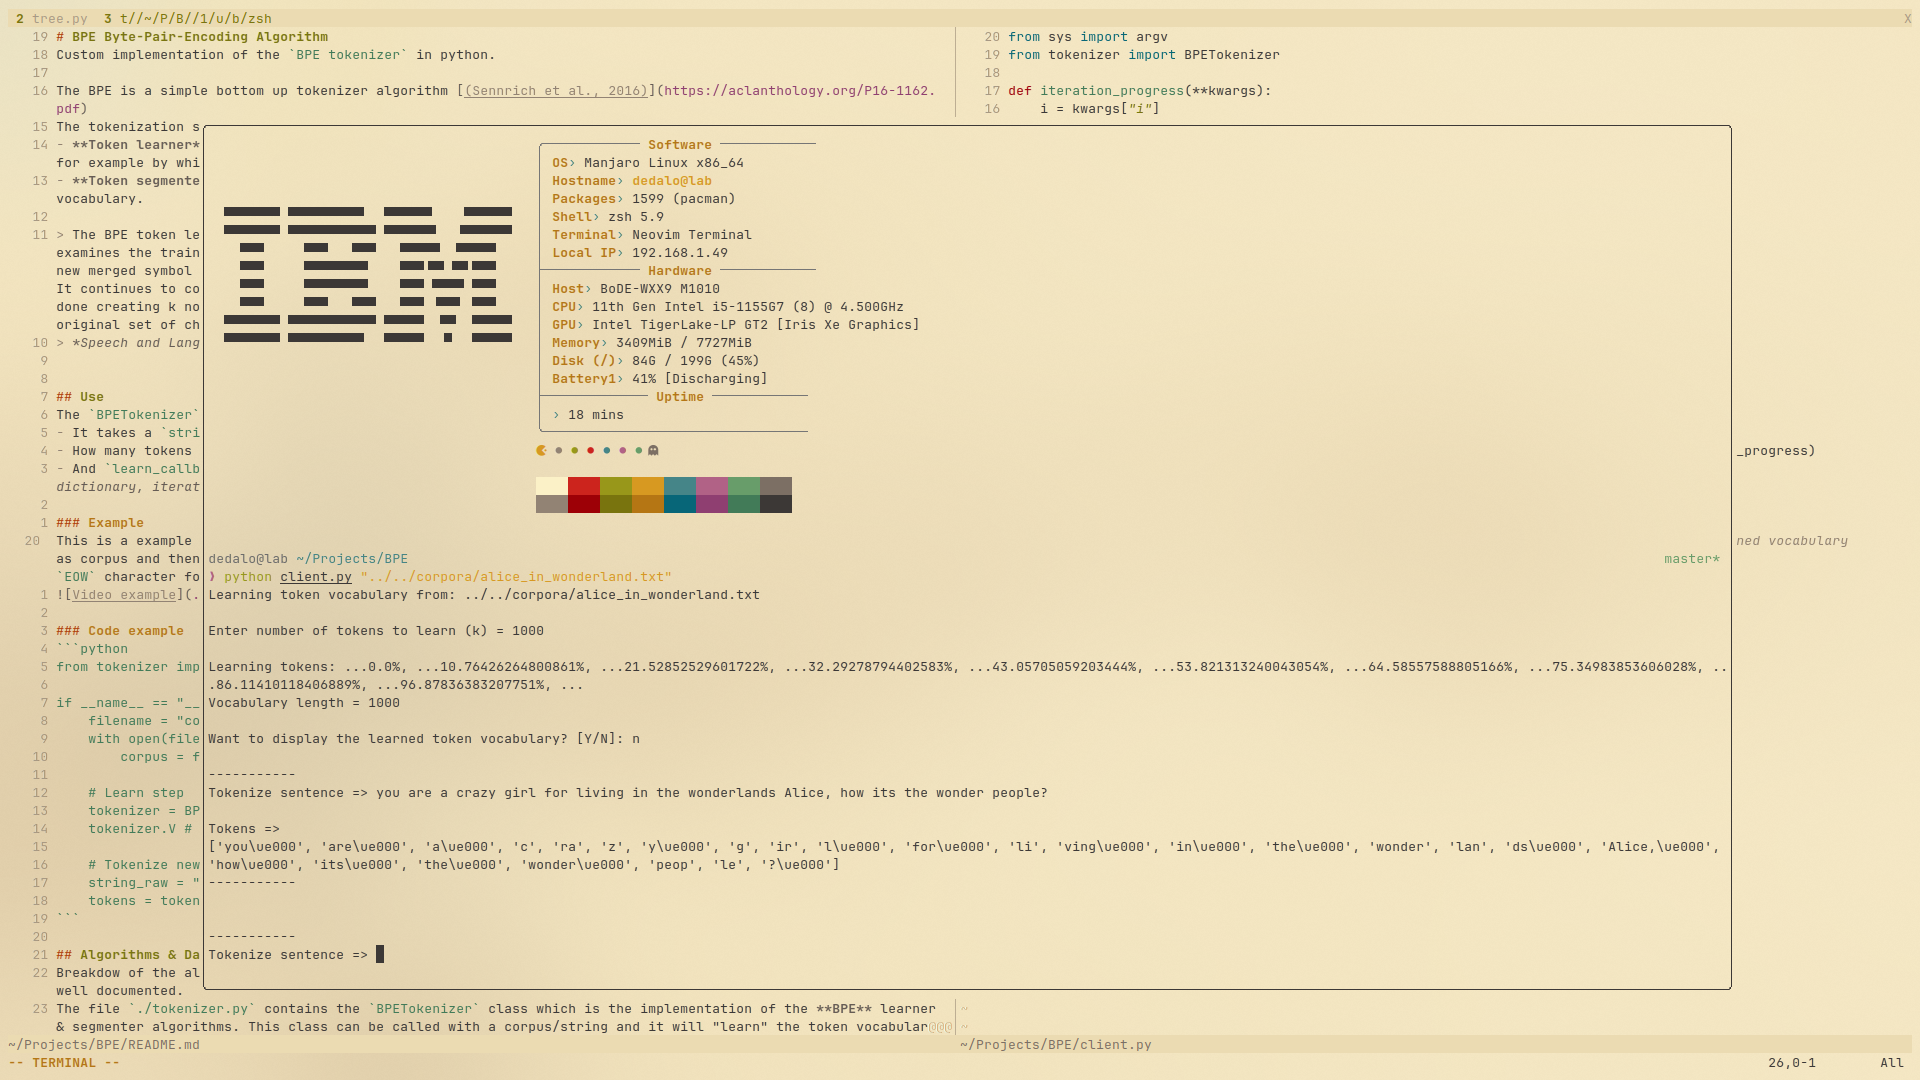
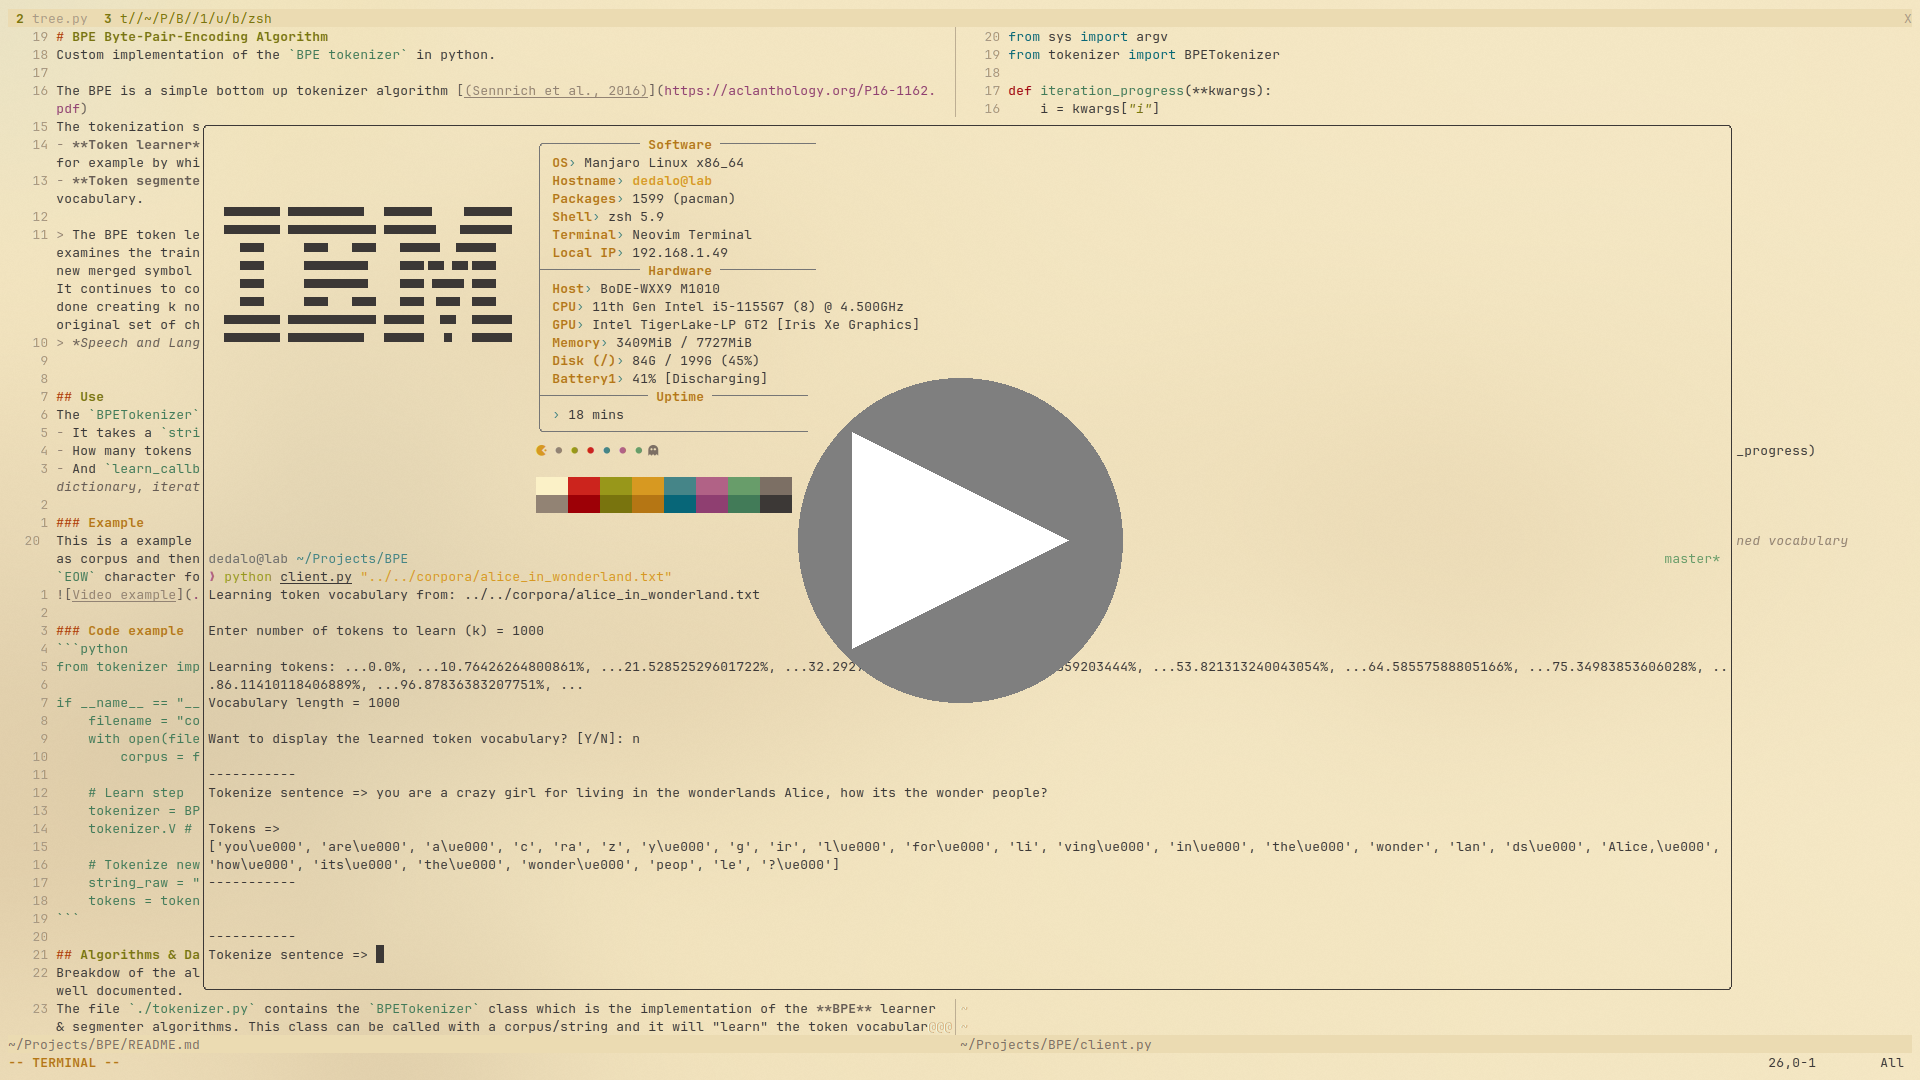
.

Changed region(s): [[0.4062, 0.3361, 0.5938, 0.6722]]

diff --git a/README.md b/README.md
@@ -18,8 +18,9 @@ The `BPETokenizer`,
 
 ### Example 
 This is a example from the simple `client.py` program that uses the tokenizer to learn a vocabulary from a file as corpus and then ask for sentence to tokenize with the given input strings and show the tokens `\uE000` is `EOW` character for words  
-  
-[![Example of use](https://vimeo.com/1044179944)](https://vimeo.com/1044179944)
+    
+**VIDEO:**
+[![Example of use](./img/thumbnail.png)](https://vimeo.com/1044179944)
 
 ### Code example
 ```python
